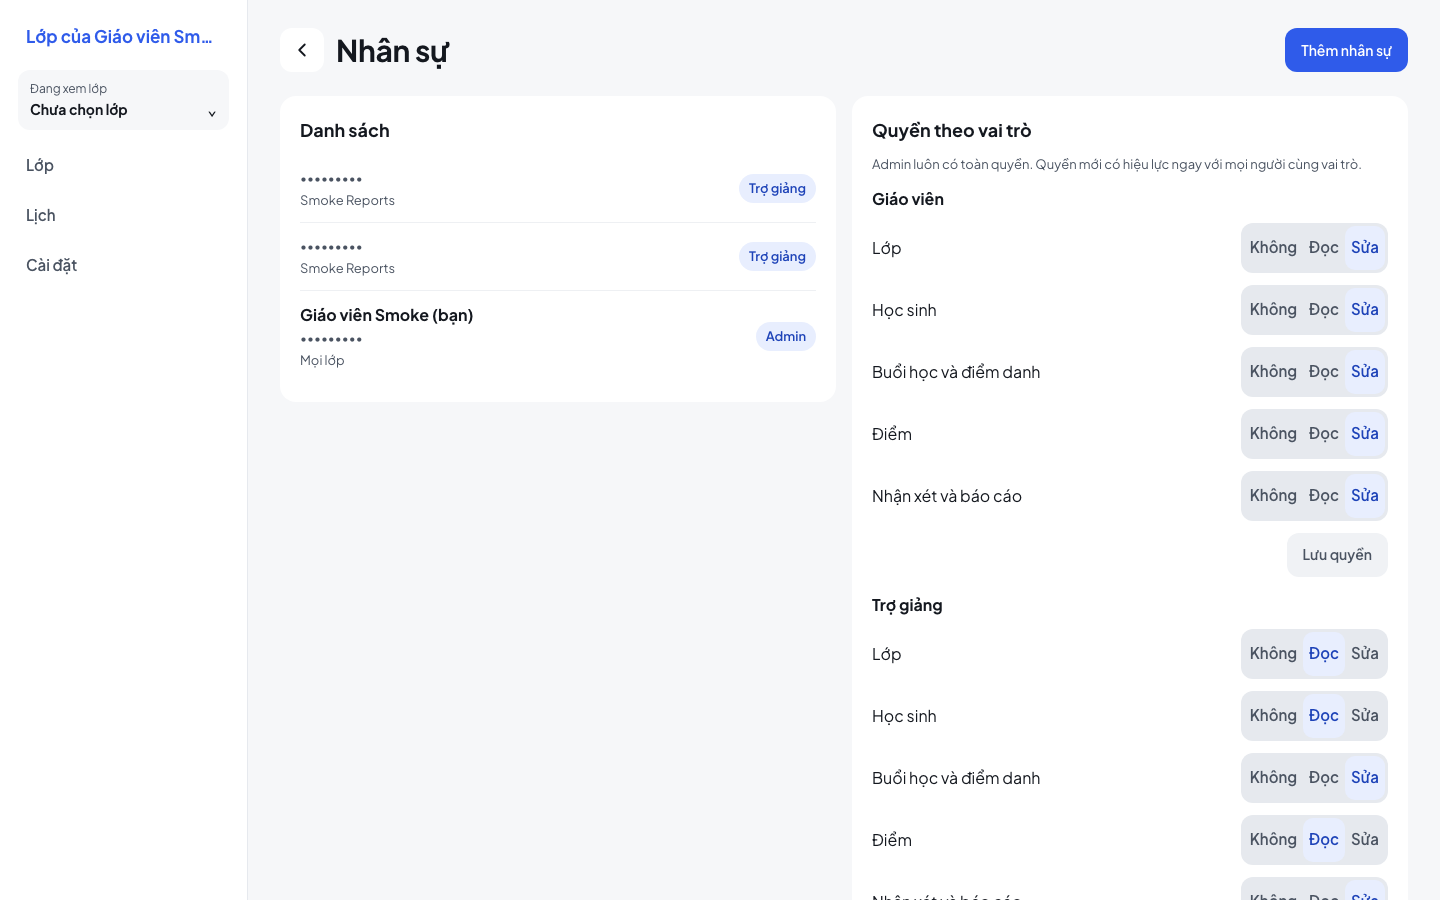
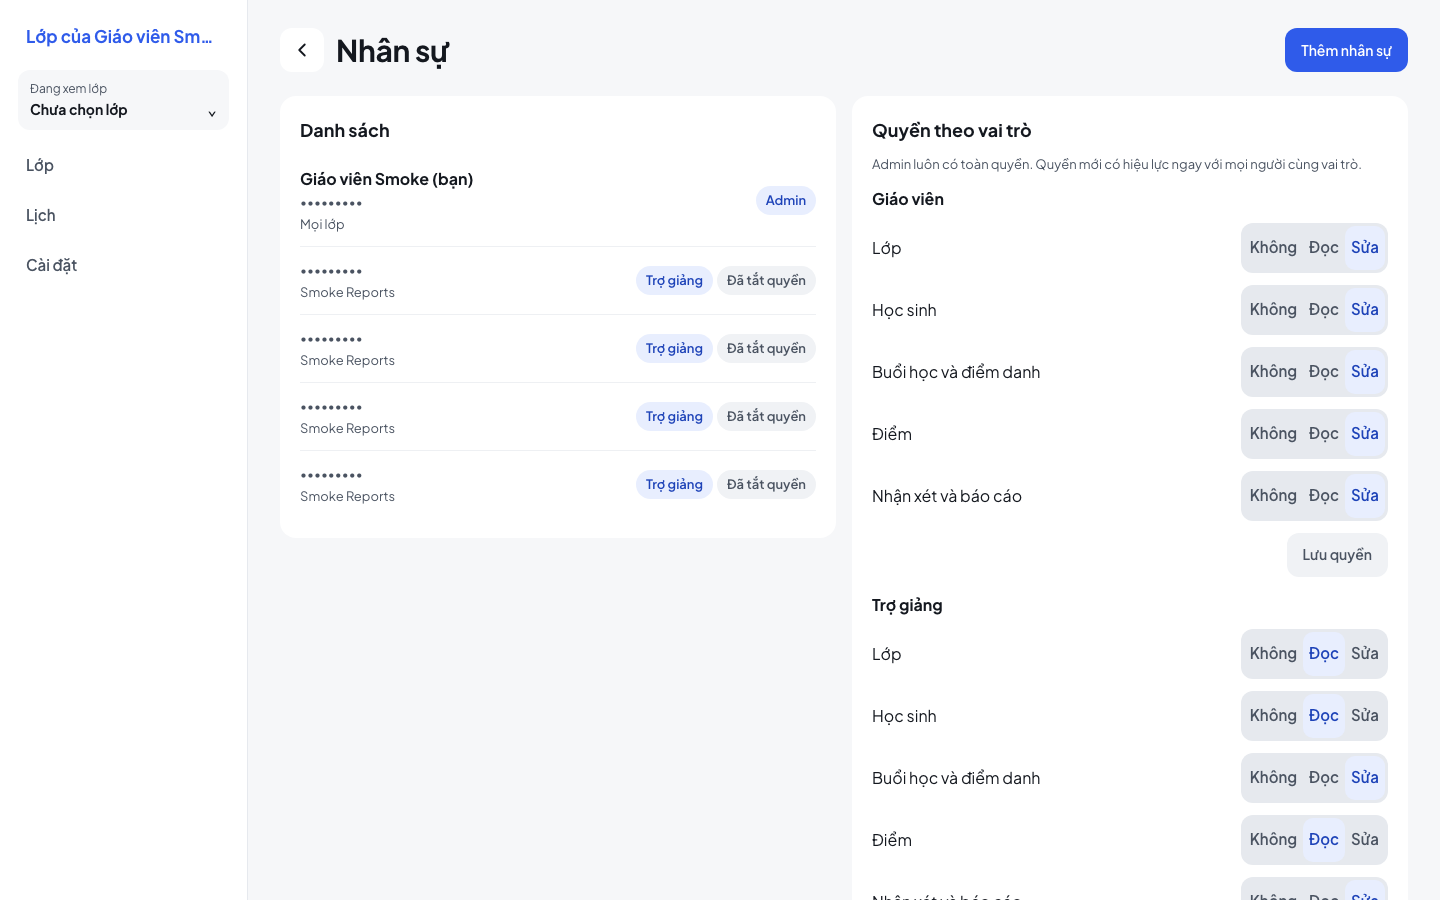
docs(web): live staging run for roles and permissions

diff --git a/plans/20261028-roles-permissions/report-web.md b/plans/20261028-roles-permissions/report-web.md
@@ -18,8 +18,32 @@ Nhánh `mvp-web-roles` (worktree `mvp-web-roles`), commit `97615c3` + sửa sau 
 
 - `tsc --noEmit` sạch; vitest đầy đủ: 729 pass, 4 skip (trước 713). Test mới: `src/features/staff/staff.test.tsx` (mock API theo hợp đồng: không-Admin bị chặn, danh sách + ma trận, thêm, trùng số đã tắt, sửa/tắt/huỷ khai báo, last_admin, lưu quyền chỉ nhóm đổi, đặt mật khẩu lần đầu 2 vai trò → picker, 1 vai trò → tự chọn) và `staffModel.test.ts`.
 - Chromium với API giả (không số thật): ảnh mobile 390 và desktop 1440 ở `shots-web/` (Cài đặt, Nhân sự, sửa, thêm), không tràn ngang. Script `capture-web.mjs`.
-- Chưa chạy với backend thật (chờ GL báo đã deploy).
+- Đã chạy với backend thật, xem mục live bên dưới.
 - Không thấy test vitest flaky lần này.
+
+## Chạy live trên staging (backend 1.1, Worker 421ef6af)
+
+Bản build local `mvp-web-roles` 21ac772 (không deploy Pages), Chromium qua proxy Playwright (staging chỉ cho origin web của nó). Script `live-web.mjs`, ảnh `shots-live/` (SĐT được che trong DOM trước khi chụp; chỉ có số giả). Kết quả: 31/32 mục pass, mục fail là dọn dẹp (bên dưới) cộng 3 chỗ lệch hợp đồng của BE.
+
+Pass:
+- Admin thêm trợ giảng bằng SĐT mới (số giả) gán 1 lớp: bản khai `pending` có đúng `class_ids`.
+- Đăng xuất, SĐT đó vào màn "Đặt mật khẩu" trung tính (không nhắc con/phụ huynh), đặt mật khẩu xong tự vào `/lop` (một vai, `PUT /session/membership` tự gọi). Bản khai thành `member/active` giữ lớp.
+- `GET /me`: có `class_ids`, quyền mặc định Trợ giảng đúng (điểm danh/nhận xét sửa, lớp/học sinh/điểm đọc). UI chỉ thấy "1 lớp đang mở", không có nút tạo/sửa lớp; `POST /classes` 403.
+- Sync cursor thật: `attendance.set` applied; `pull` từ cursor snapshot (9289→9291, 9296→9298) trả đúng dòng điểm danh; pull tiếp từ cursor mới rỗng, `has_more=false`. `score.set` trả `rejected/forbidden`; màn điểm không có ô sửa được.
+- Admin vô hiệu hoá → lần gọi kế tiếp bị từ chối, UI về `/dang-nhap`; bật lại → đăng nhập lại vào `/lop` bình thường.
+- Chéo workspace: workspace B thêm số của Admin A làm trợ giảng (membership `active` ngay). A đăng nhập → `/chon-vai-tro` có "Quản trị viên" và "Trợ giảng"; chọn Trợ giảng thì chỉ thấy lớp của B, Cài đặt không có mục Nhân sự; "Đổi vai trò" quay lại Quản trị viên thấy lại lớp A và mục Nhân sự.
+
+Lệch so với hợp đồng (cho BE, web đã xử lý được cả hai):
+1. Membership duy nhất bị vô hiệu: `GET /classes` trả `403 account_disabled`, hợp đồng nói `403 forbidden` + `details.reason = "membership_required"`. Web xoá phiên và về đăng nhập, đúng ý đồ cho tài khoản chỉ có một vai; chưa kiểm khi tài khoản còn vai khác.
+2. `POST /sync/push` của membership bị vô hiệu trả `404`, hợp đồng nói `403`. Web coi 403 và 404 như nhau (giữ lệnh, `invalidateActiveMembership`).
+3. `POST /auth/register` với dữ liệu rác trả `500` thay vì 422 (chỉ thấy khi thử `phone: "abc"`).
+Ngoài ra: đăng ký bị rate limit chung (429, ~58 phút) sau vài lần đăng ký liên tiếp, gồm cả `register-guardian`.
+
+Dọn dẹp chưa xong hoàn toàn:
+- Nhân sự thử trong workspace smoke A đã vô hiệu hoá hết (script tự dọn; không xoá được thành viên đã có tài khoản).
+- Tài khoản smoke A vẫn còn membership "Trợ giảng" ở workspace thử B ("Không gian thử B"). Người thêm là Admin B (SĐT giả, mật khẩu ngẫu nhiên đã mất), A không tự rời được, nên đăng nhập smoke giờ qua `/chon-vai-tro`. Cần BE/GL vô hiệu hoá membership này (D1) hoặc chấp nhận bước chọn vai trò trong smoke. Có thể bổ sung "tự rời workspace" ở 1.2.
+- Bản ghi điểm danh `present` của 1 học sinh ở 1 buổi lớp smoke (do kiểm sync) vẫn còn.
+- Workspace thử B và vài tài khoản giả tồn tại trên staging.
 
 ## Hạn chế
 
@@ -36,5 +60,5 @@ Route guard Admin, ẩn/khoá theo quyền, `active_membership_id` null và tự
 - Test thêm 3 ca (403, đổi membership, khoá ma trận). tsc sạch, 729 pass.
 
 Status: DONE_WITH_CONCERNS
-Summary: Màn Nhân sự, ma trận quyền, đặt mật khẩu lần đầu trung tính và xử lý chọn vai trò xong, tsc + 729 test pass, ảnh Chromium với API giả. Chưa thử với backend thật.
-Concerns/Blockers: Cần backend 1.1 deployed để chạy thật; chưa có đổi vai trò cho hàng Admin.
+Summary: Web 1.1 xong, tsc + 729 test pass, chạy live staging pass toàn bộ kịch bản (sync cursor thật, vô hiệu/bật lại, chéo workspace).
+Concerns/Blockers: 3 chỗ BE lệch hợp đồng (403 account_disabled, push 404, register 500); tài khoản smoke còn membership Trợ giảng ở workspace thử B cần BE vô hiệu hoá; chưa có đổi vai trò cho hàng Admin.
